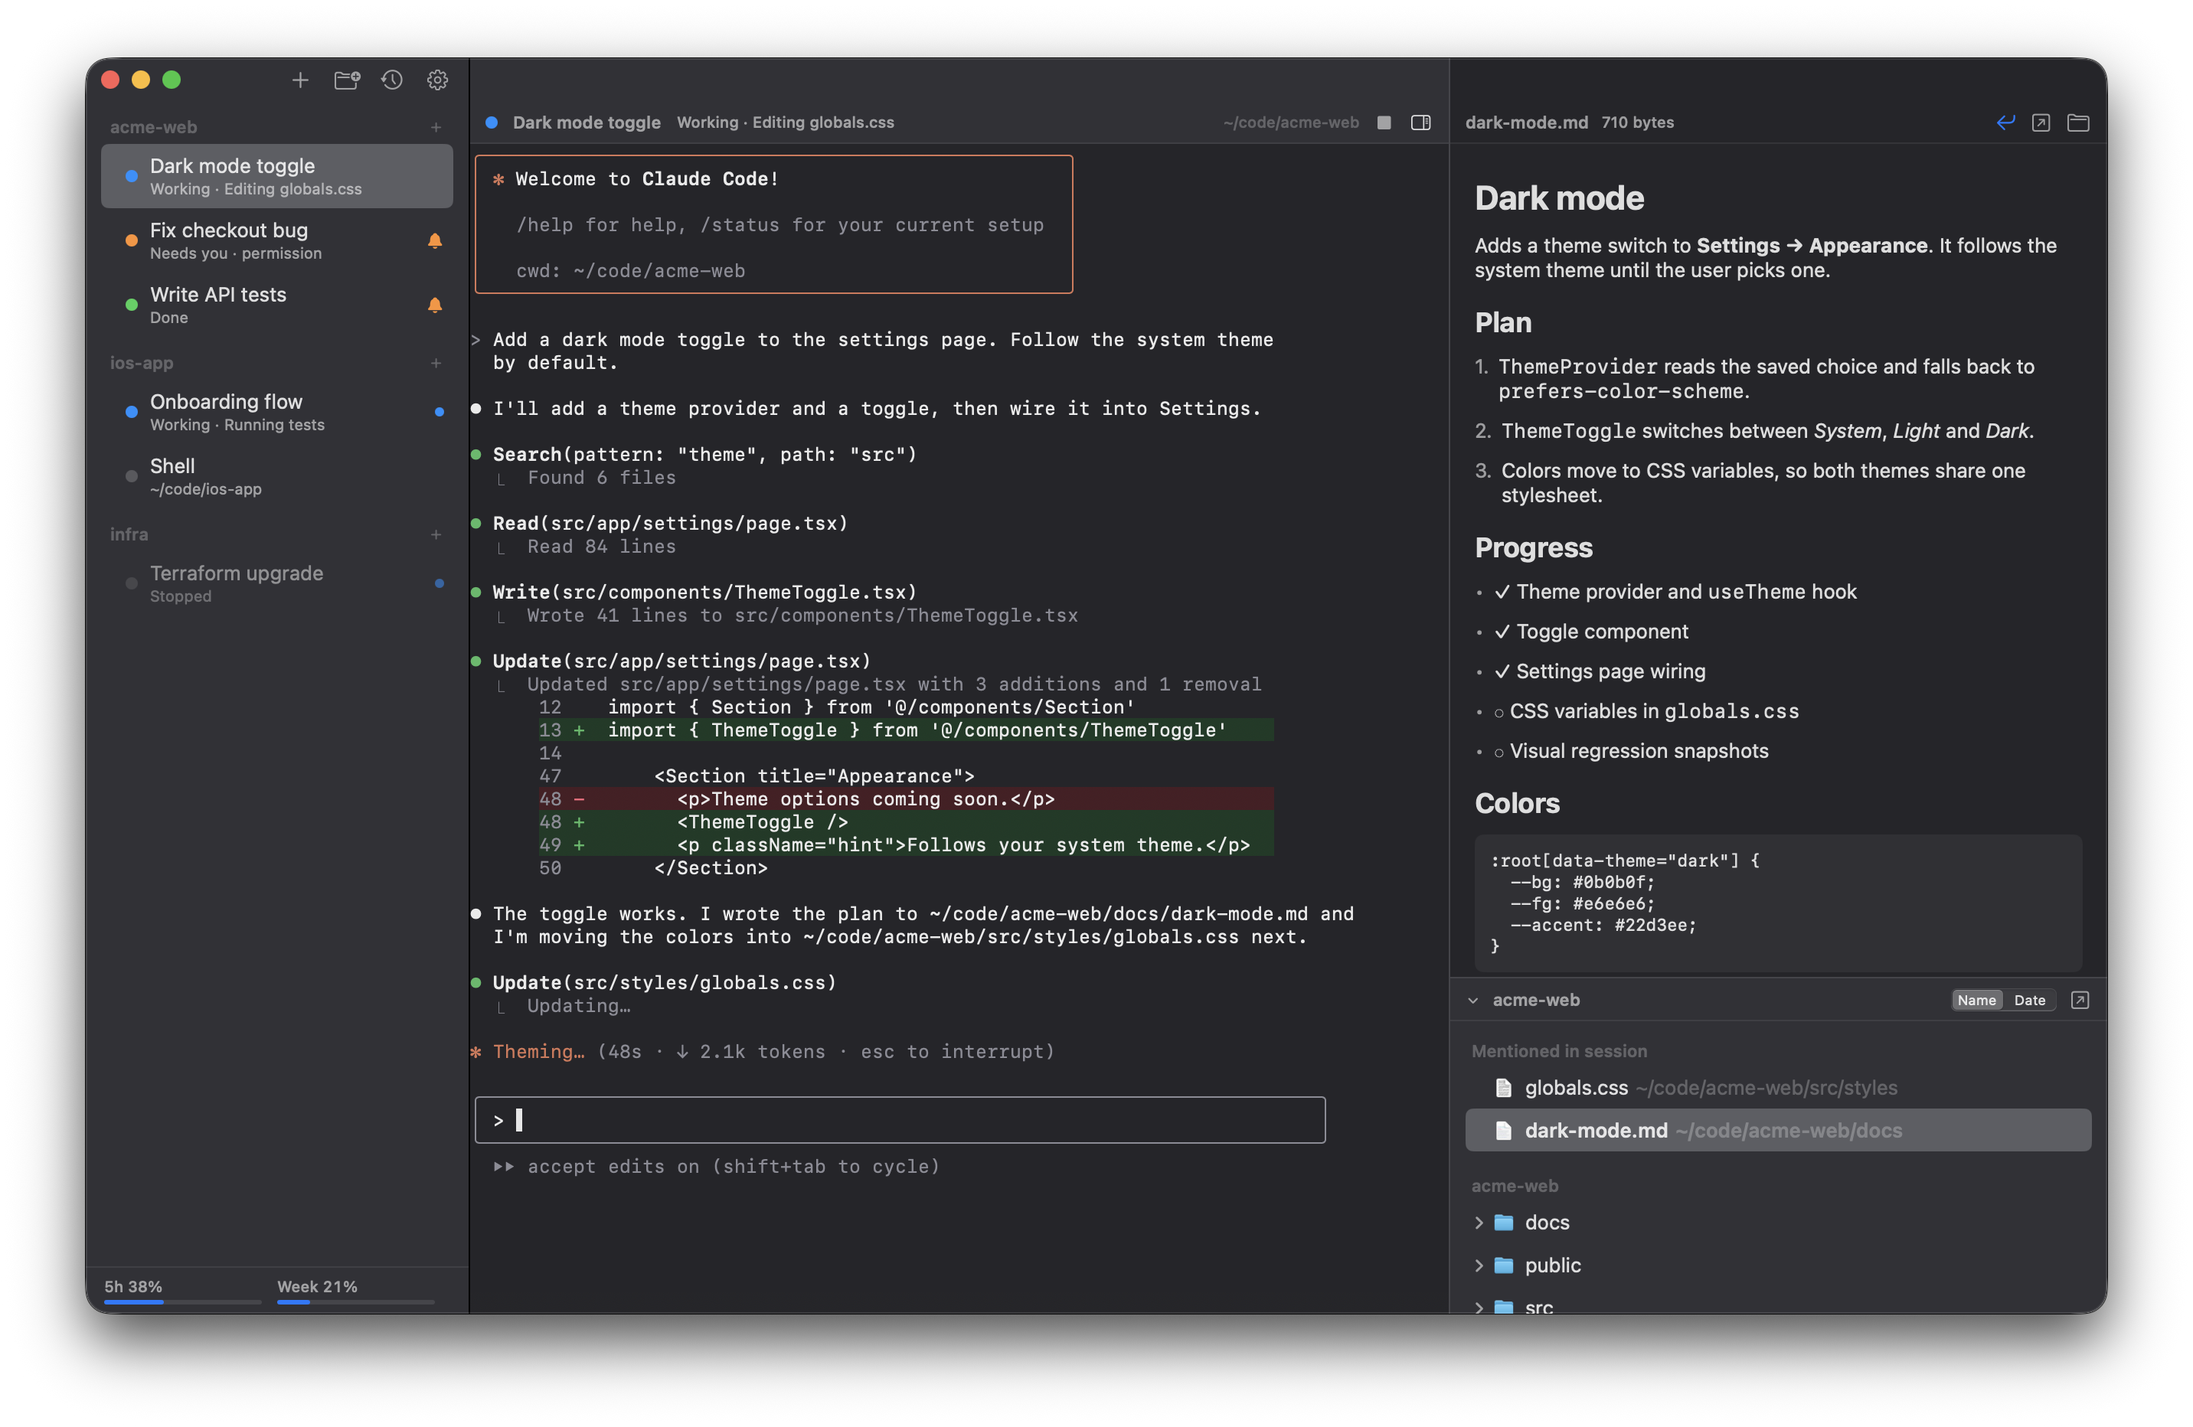
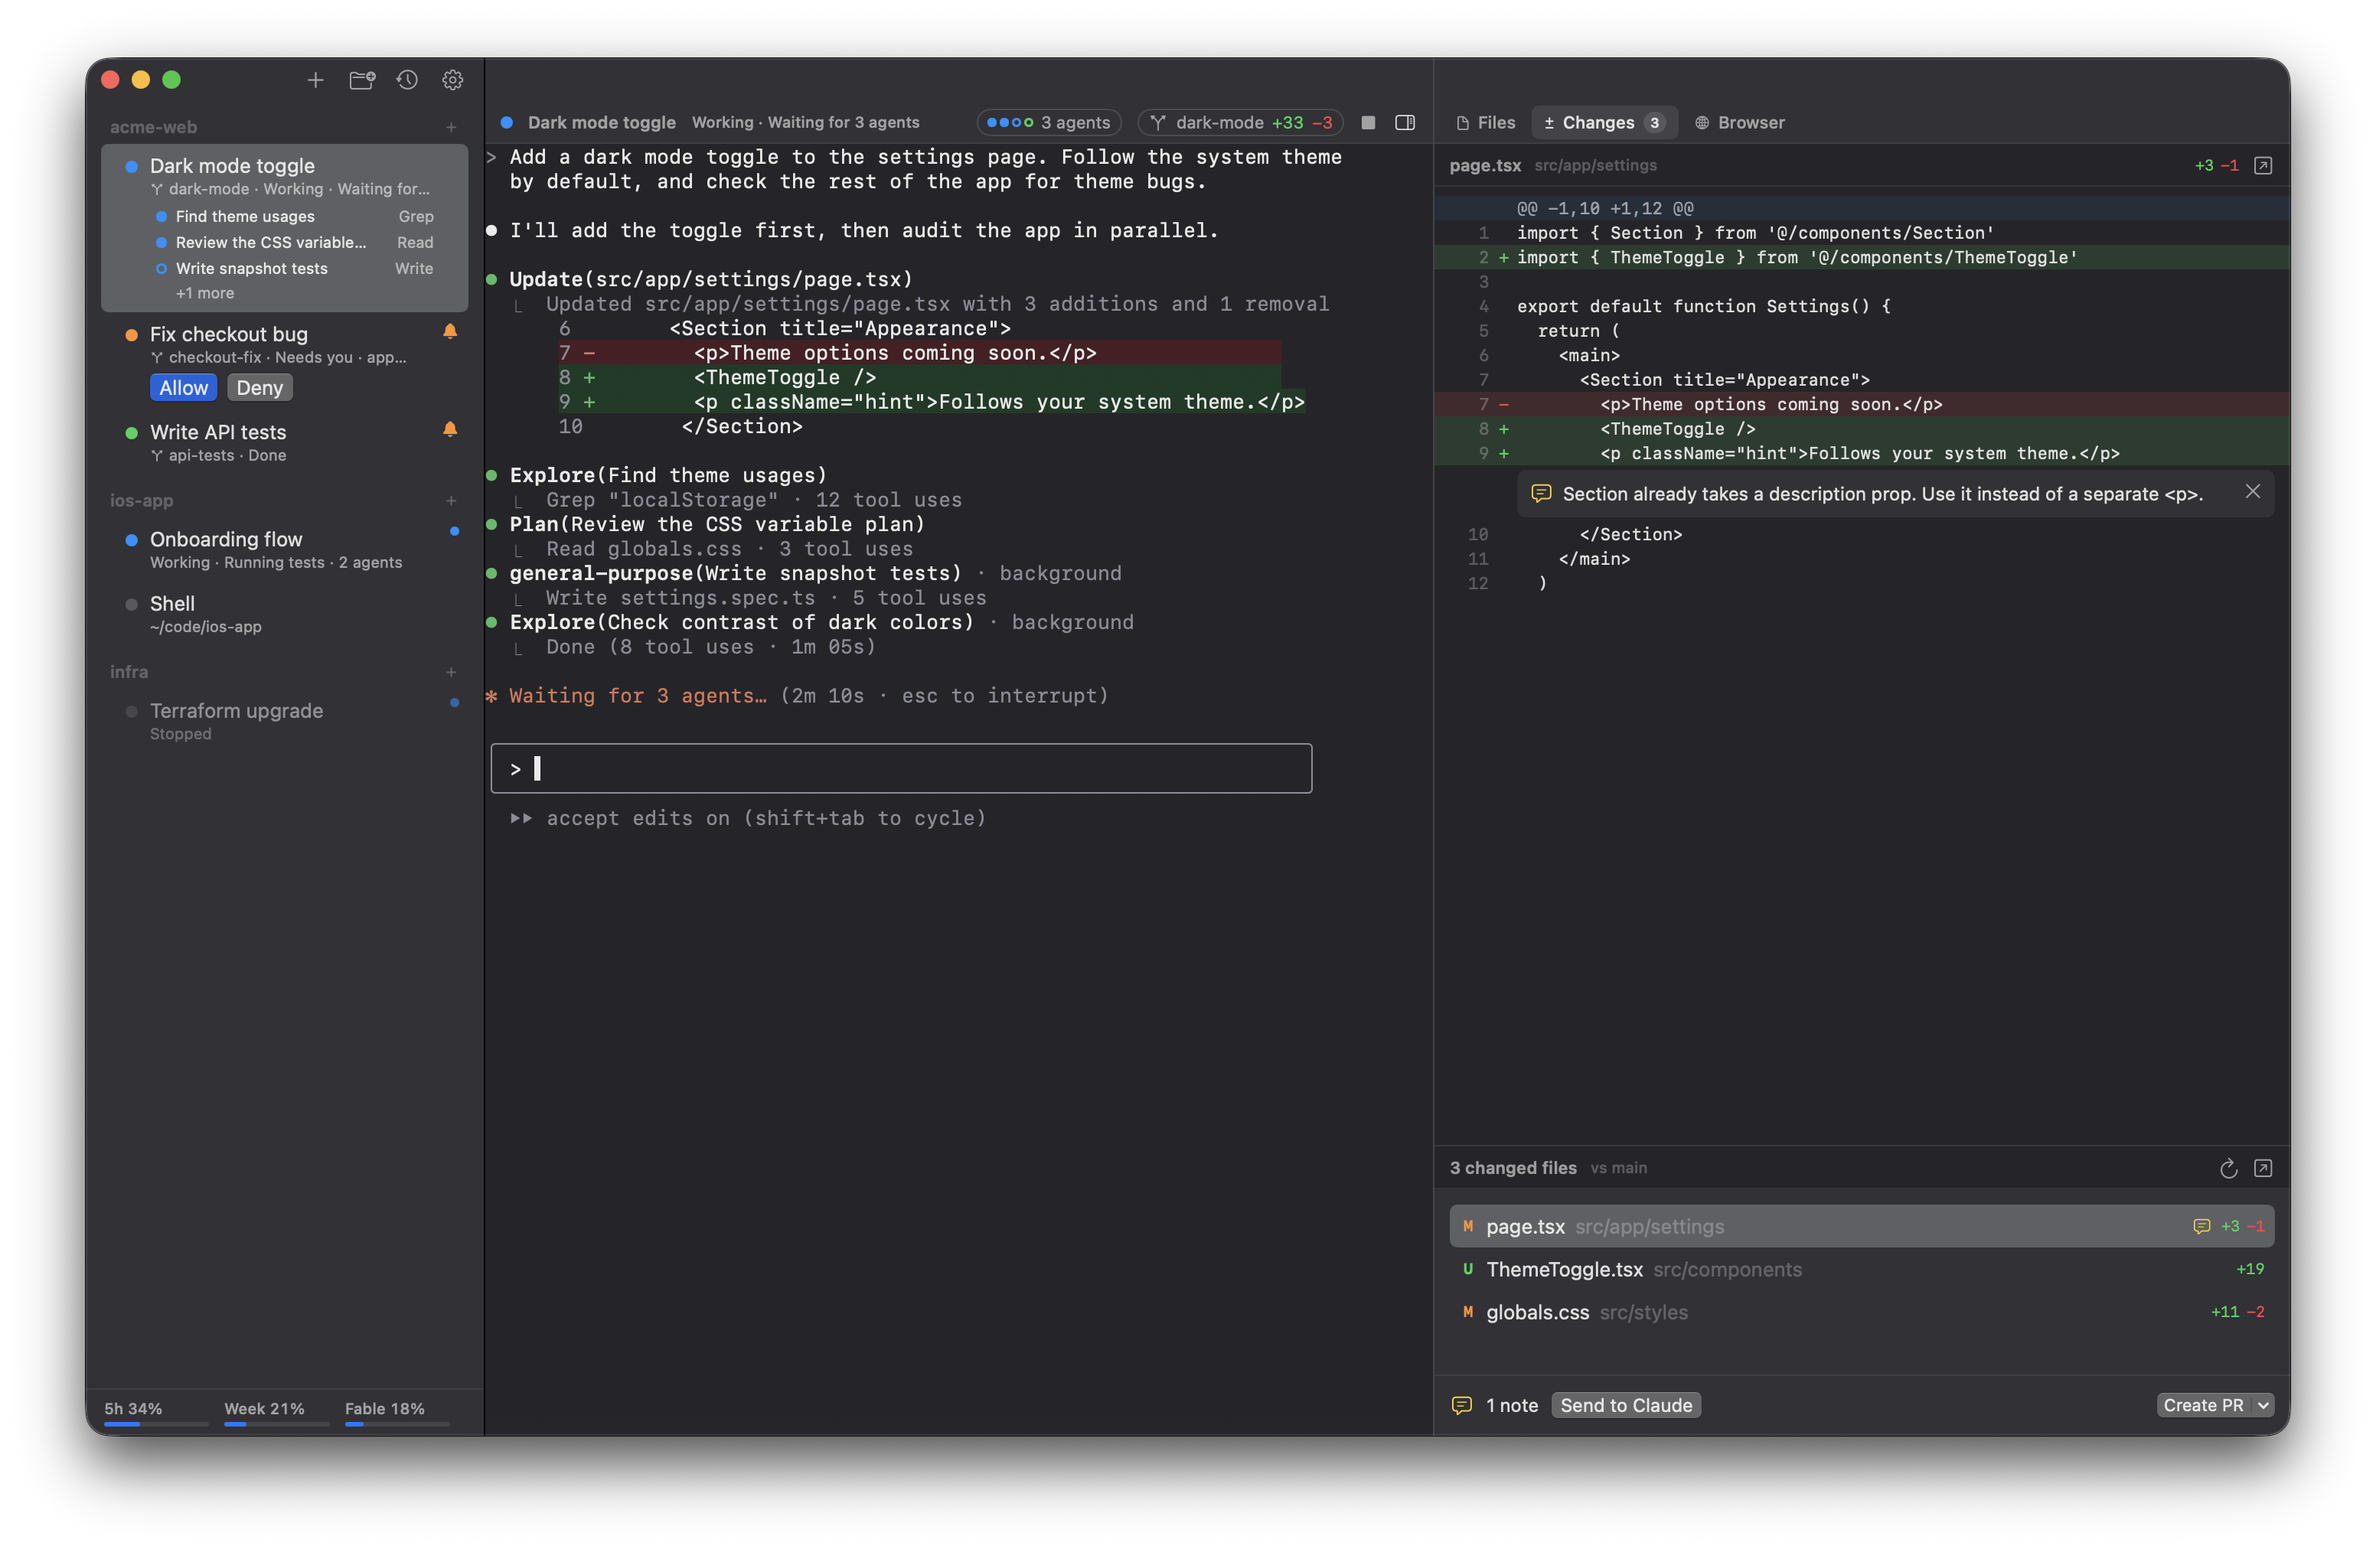
Update screenshot for worktrees, changes and subagents
The screenshot stages the design mockup's scenario in the app: a
worktree session with three subagents, a session waiting on Allow or
Deny, and the Changes tab with a review note. The social preview uses
the new screenshot.

diff --git a/README.md b/README.md
@@ -2,7 +2,7 @@
 
 A native macOS terminal for running many [Claude Code](https://claude.com/claude-code) sessions side by side. Sessions are grouped into projects in a sidebar, each one keeps its own Claude conversation across relaunches, and a files panel previews whatever the session is working on.
 
-![omux with three projects in the sidebar, a Claude Code session editing a settings page, and the files panel previewing a Markdown plan](docs/screenshot.png)
+![omux with a worktree session running three subagents, a session waiting on Allow or Deny, and the Changes tab showing the diff with a review note](docs/screenshot.png)
 
 Built with SwiftUI and [SwiftTerm](https://github.com/migueldeicaza/SwiftTerm).
 
